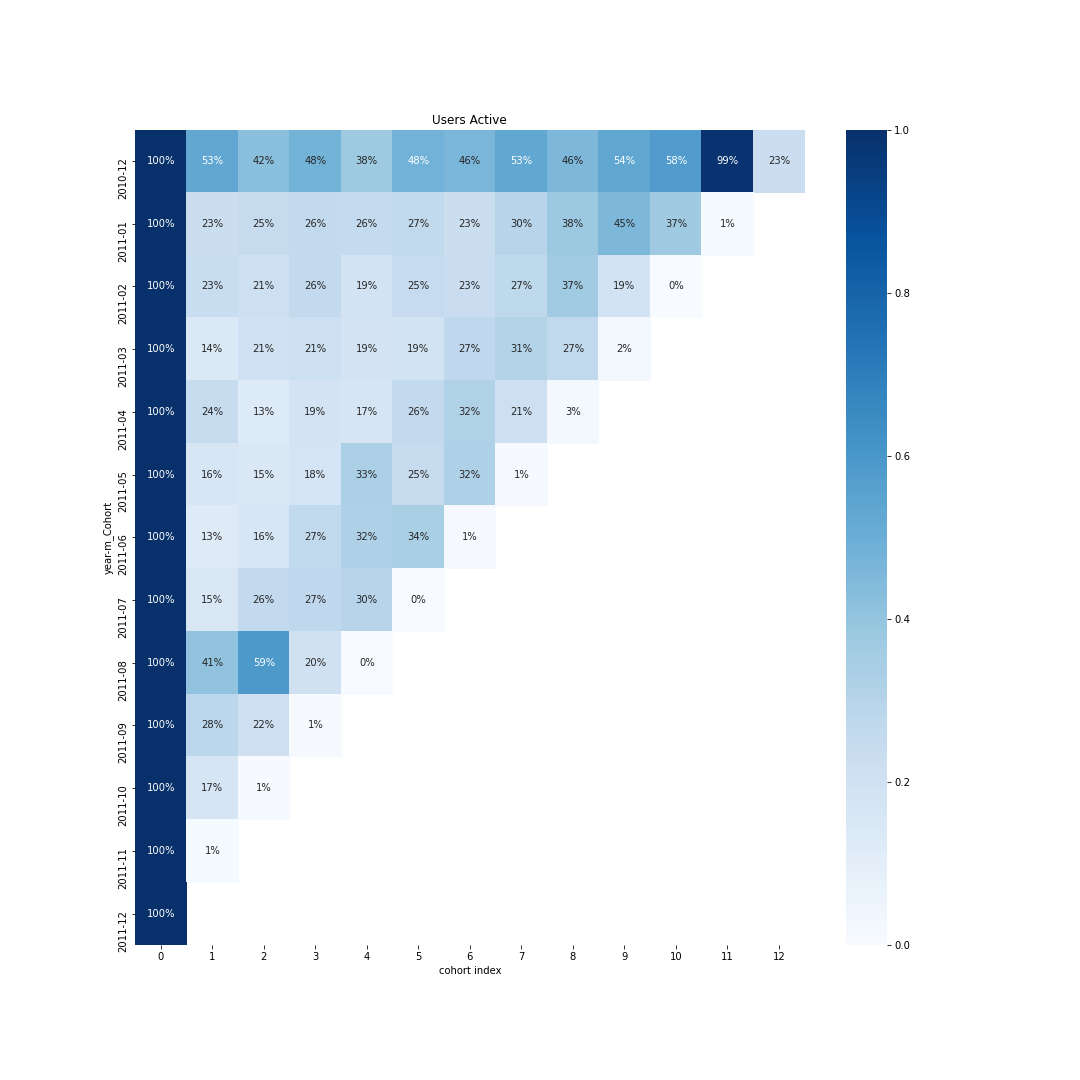
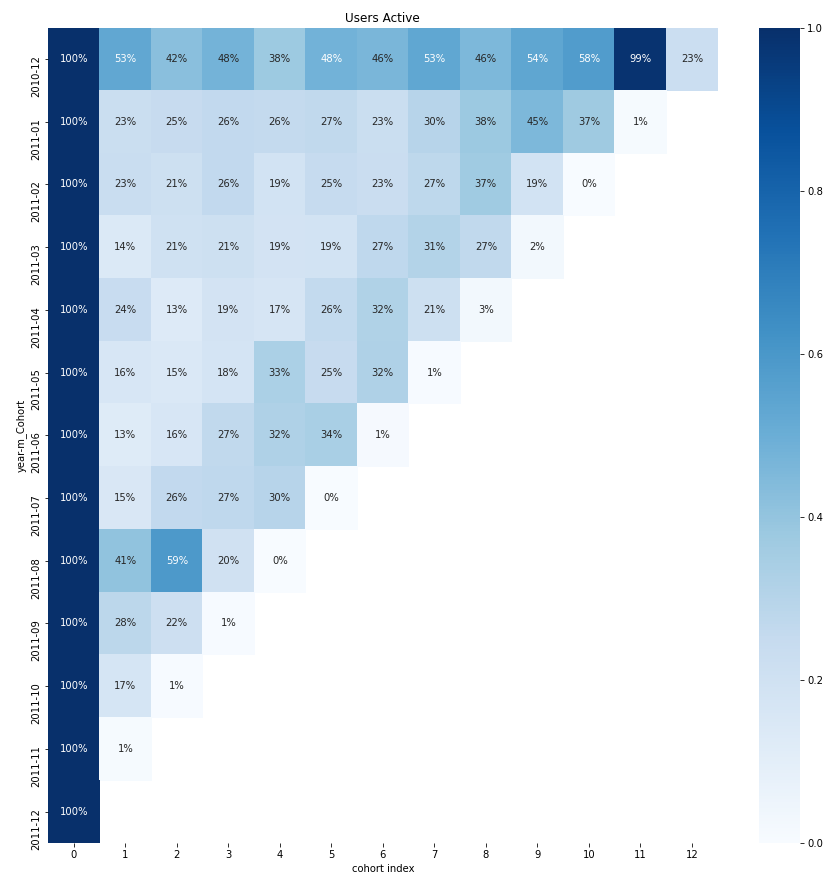
Add img

diff --git a/index.html b/index.html
@@ -177,7 +177,7 @@
         </ul>
          <h3 class="mb-0">Vision</h3>
          <a href="https://nbviewer.jupyter.org/github/reejungkim/Image-classification/blob/master/image%20comparison.ipynb">View repository</a>
-
+          <p><img src="/assets/img/img_spot_difference.png" width="500" height="250"/></p>
 
         <p class="mb-0">
           <!-- When forced indoors, I follow a number of sci-fi and fantasy genre movies and television shows, I am an aspiring chef, and I spend a large amount of my free time exploring the latest technology advancements in the
